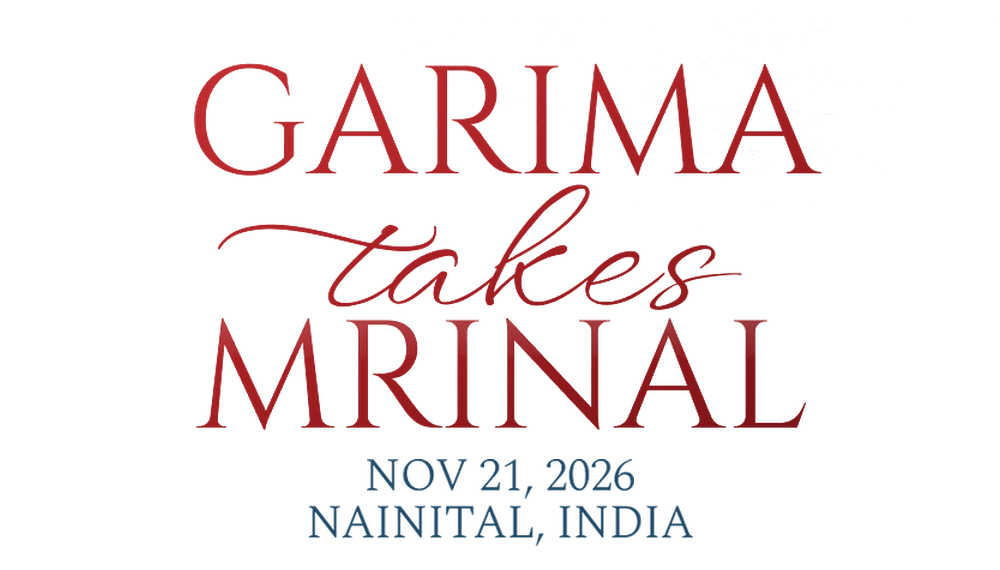
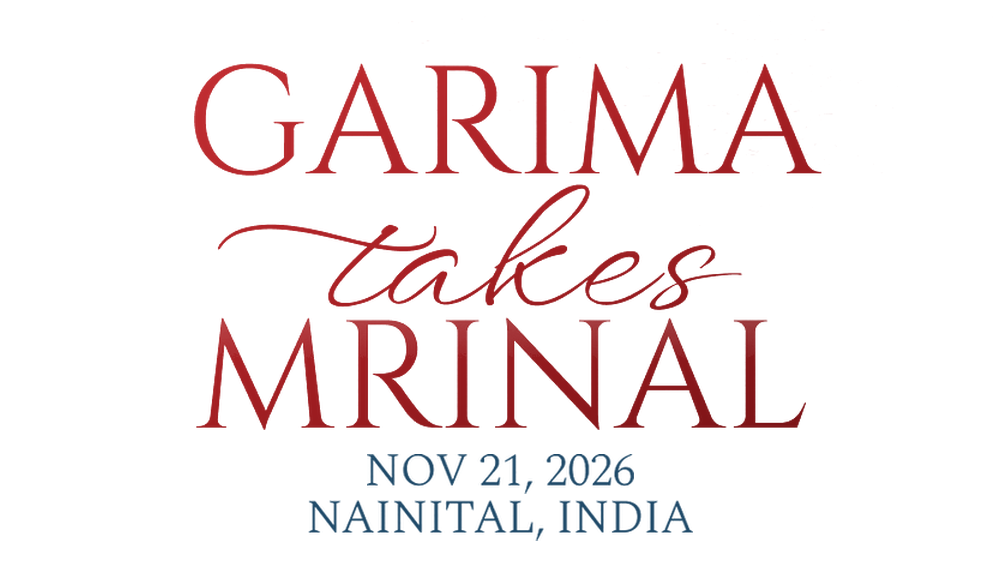
Update Top Clearance below MRINAL from 12px to 10px on mobile

diff --git a/index.html b/index.html
@@ -17,13 +17,13 @@
 <meta name="apple-mobile-web-app-title" content="GTM 2026">
 <title>Garima weds Mrinal · Nainital 2026</title>
 <meta name="description" content="Garima weds Mrinal · A wedding in the Kumaon hills · 20–22 November 2026 · Nainital, Uttarakhand">
-<link rel="icon" type="image/png" sizes="32x32" href="images/favicon-32x32.png?v=5100">
-<link rel="icon" type="image/png" sizes="64x64" href="images/favicon-64x64.png?v=5100">
-<link rel="icon" type="image/x-icon" href="favicon.ico?v=5100">
+<link rel="icon" type="image/png" sizes="32x32" href="images/favicon-32x32.png?v=5200">
+<link rel="icon" type="image/png" sizes="64x64" href="images/favicon-64x64.png?v=5200">
+<link rel="icon" type="image/x-icon" href="favicon.ico?v=5200">
 <link rel="preconnect" href="https://fonts.googleapis.com">
 <link rel="preconnect" href="https://fonts.gstatic.com" crossorigin>
 <link href="https://fonts.googleapis.com/css2?family=Cinzel:wght@400;500;600;700&family=Cormorant+Garamond:ital,wght@0,300;0,400;0,500;0,600;0,700;1,400;1,500&family=Spectral:wght@200;300;400;500;600;700&family=WindSong&display=swap" rel="stylesheet">
-<link rel="stylesheet" href="css/site.css?v=5100">
+<link rel="stylesheet" href="css/site.css?v=5200">
 <style>
 @font-face {
   font-family: 'WindSong';
@@ -580,7 +580,7 @@ html, body {
           <!-- ── 3. Central Typography Centerpiece (Pixel-by-Pixel Master Design Lockup) ── -->
   <div class="home-hero-text">
     <div class="home-centerpiece-wrap">
-      <img src="images/home_centerpiece.png?v=5100" alt="GARIMA takes MRINAL · NOV 21, 2026 · NAINITAL, INDIA" class="home-centerpiece-img">
+      <img src="images/home_centerpiece.png?v=5200" alt="GARIMA takes MRINAL · NOV 21, 2026 · NAINITAL, INDIA" class="home-centerpiece-img">
     </div>
   </div>
 
@@ -915,7 +915,7 @@ document.addEventListener('DOMContentLoaded', function() {
   }
 });
 </script>
-<script src="js/spa-nav.js?v=5100"></script>
-<script src="js/global-audio.js?v=5100"></script>
+<script src="js/spa-nav.js?v=5200"></script>
+<script src="js/global-audio.js?v=5200"></script>
 </body>
 </html>
